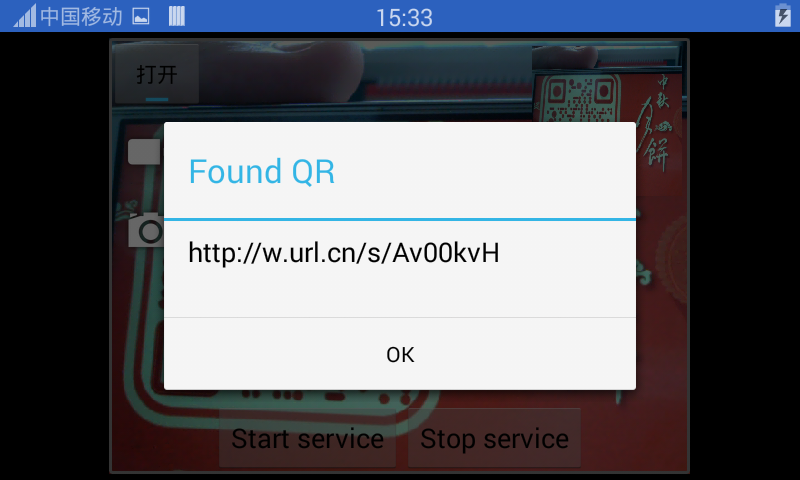
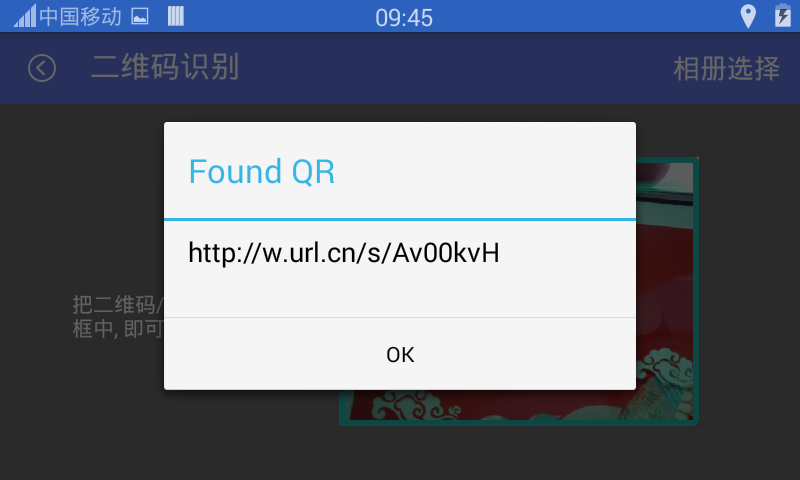
增加选择图片识别 增加Toolbar

diff --git a/app/src/main/java/com/serenegiant/utils/ImageUtil.java b/app/src/main/java/com/serenegiant/utils/ImageUtil.java
@@ -1,0 +1,161 @@
+/*
+******************************* Copyright (c)*********************************\
+**
+**                 (c) Copyright 2015, 蒋朋, china, qd. sd
+**                          All Rights Reserved
+**
+**                           By()
+**
+**
+**-----------------------------------版本信息------------------------------------
+** 版    本: V0.1
+**
+**------------------------------------------------------------------------------
+********************************End of Head************************************\
+*/
+
+package com.serenegiant.utils;
+
+import android.annotation.TargetApi;
+import android.content.ContentUris;
+import android.content.Context;
+import android.database.Cursor;
+import android.graphics.Bitmap;
+import android.graphics.BitmapFactory;
+import android.net.Uri;
+import android.os.Environment;
+import android.provider.DocumentsContract;
+import android.provider.MediaStore;
+
+/**
+ * 文 件 名: ImageUtil
+ * 创 建 人: 蒋朋
+ * 创建日期: 16-8-22 11:36
+ * 描    述: 图片处理工具类
+ * 修 改 人:
+ * 修改时间：
+ * 修改备注：
+ */
+
+public class ImageUtil {
+
+    /**
+     * 根据文件路径，压缩图片，用于二维码扫描
+     * @param path
+     * @return
+     */
+    public static Bitmap getBitmap(String path) {
+        BitmapFactory.Options options = new BitmapFactory.Options();
+        options.inJustDecodeBounds = true;
+        BitmapFactory.decodeFile(path, options);
+        int sampleSize = options.outHeight / 400;
+        if (sampleSize <= 0) {
+            sampleSize = 1;
+        }
+        options.inSampleSize = sampleSize;
+        options.inJustDecodeBounds = false;
+
+        return BitmapFactory.decodeFile(path, options);
+    }
+
+    /**
+     * 根据Uri获取图片绝对路径，解决Android4.4以上版本Uri转换
+     *
+     * @param context
+     * @param imageUri
+     */
+    @TargetApi(19)
+    public static String getImageAbsolutePath(Context context, Uri imageUri) {
+        if (context == null || imageUri == null)
+            return null;
+        if (android.os.Build.VERSION.SDK_INT >= android.os.Build.VERSION_CODES.KITKAT && DocumentsContract.isDocumentUri(context, imageUri)) {
+            if (isExternalStorageDocument(imageUri)) {
+                String docId = DocumentsContract.getDocumentId(imageUri);
+                String[] split = docId.split(":");
+                String type = split[0];
+                if ("primary".equalsIgnoreCase(type)) {
+                    return Environment.getExternalStorageDirectory() + "/" + split[1];
+                }
+            } else if (isDownloadsDocument(imageUri)) {
+                String id = DocumentsContract.getDocumentId(imageUri);
+                Uri contentUri = ContentUris.withAppendedId(Uri.parse("content://downloads/public_downloads"), Long.valueOf(id));
+                return getDataColumn(context, contentUri, null, null);
+            } else if (isMediaDocument(imageUri)) {
+                String docId = DocumentsContract.getDocumentId(imageUri);
+                String[] split = docId.split(":");
+                String type = split[0];
+                Uri contentUri = null;
+                if ("image".equals(type)) {
+                    contentUri = MediaStore.Images.Media.EXTERNAL_CONTENT_URI;
+                } else if ("video".equals(type)) {
+                    contentUri = MediaStore.Video.Media.EXTERNAL_CONTENT_URI;
+                } else if ("audio".equals(type)) {
+                    contentUri = MediaStore.Audio.Media.EXTERNAL_CONTENT_URI;
+                }
+                String selection = MediaStore.Images.Media._ID + "=?";
+                String[] selectionArgs = new String[]{split[1]};
+                return getDataColumn(context, contentUri, selection, selectionArgs);
+            }
+        } // MediaStore (and general)
+        else if ("content".equalsIgnoreCase(imageUri.getScheme())) {
+            // Return the remote address
+            if (isGooglePhotosUri(imageUri))
+                return imageUri.getLastPathSegment();
+            return getDataColumn(context, imageUri, null, null);
+        }
+        // File
+        else if ("file".equalsIgnoreCase(imageUri.getScheme())) {
+            return imageUri.getPath();
+        }
+        return null;
+    }
+
+    public static String getDataColumn(Context context, Uri uri, String selection, String[] selectionArgs) {
+        Cursor cursor = null;
+        String column = MediaStore.Images.Media.DATA;
+        String[] projection = {column};
+        try {
+            cursor = context.getContentResolver().query(uri, projection, selection, selectionArgs, null);
+            if (cursor != null && cursor.moveToFirst()) {
+                int index = cursor.getColumnIndexOrThrow(column);
+                return cursor.getString(index);
+            }
+        } finally {
+            if (cursor != null)
+                cursor.close();
+        }
+        return null;
+    }
+
+    /**
+     * @param uri The Uri to check.
+     * @return Whether the Uri authority is ExternalStorageProvider.
+     */
+    public static boolean isExternalStorageDocument(Uri uri) {
+        return "com.android.externalstorage.documents".equals(uri.getAuthority());
+    }
+
+    /**
+     * @param uri The Uri to check.
+     * @return Whether the Uri authority is DownloadsProvider.
+     */
+    public static boolean isDownloadsDocument(Uri uri) {
+        return "com.android.providers.downloads.documents".equals(uri.getAuthority());
+    }
+
+    /**
+     * @param uri The Uri to check.
+     * @return Whether the Uri authority is MediaProvider.
+     */
+    public static boolean isMediaDocument(Uri uri) {
+        return "com.android.providers.media.documents".equals(uri.getAuthority());
+    }
+
+    /**
+     * @param uri The Uri to check.
+     * @return Whether the Uri authority is Google Photos.
+     */
+    public static boolean isGooglePhotosUri(Uri uri) {
+        return "com.google.android.apps.photos.content".equals(uri.getAuthority());
+    }
+}

diff --git a/app/src/main/java/com/serenegiant/usbcamerazxing/MainActivity.java b/app/src/main/java/com/serenegiant/usbcamerazxing/MainActivity.java
@@ -23,22 +23,46 @@ package com.serenegiant.usbcamerazxing;
  * Files in the jni/libjpeg, jni/libusb, jin/libuvc, jni/rapidjson folder may have a different license, see the respective files.
 */
 
-import android.app.Activity;
+import android.app.AlertDialog;
 import android.app.Fragment;
-import android.content.pm.ActivityInfo;
+import android.content.Intent;
+import android.graphics.Bitmap;
+import android.graphics.Color;
+import android.net.Uri;
 import android.os.Bundle;
+import android.support.v7.app.AppCompatActivity;
+import android.support.v7.widget.Toolbar;
 import android.util.Log;
+import android.view.Menu;
+import android.view.MenuItem;
 import android.view.Window;
+import android.widget.Toast;
 
-public class MainActivity extends Activity {
+import com.serenegiant.utils.ImageUtil;
+import com.uuzuche.lib_zxing.activity.CodeUtils;
+
+public class MainActivity extends AppCompatActivity {
 	private static final boolean DEBUG = false;
 	private static final String TAG = "MainActivity";
+
+	private Toolbar mToolbar;
+
+	//选择图片后的识别码
+	private static final int REQUEST_QR_IMAGE = 480;
 
 	@Override
 	protected void onCreate(final Bundle savedInstanceState) {
 		super.onCreate(savedInstanceState);
 		requestWindowFeature(Window.FEATURE_NO_TITLE);
 		setContentView(R.layout.activity_main);
+
+		mToolbar = (Toolbar) findViewById(R.id.toolbar);
+
+		mToolbar.setTitle("二维码识别");
+		mToolbar.setTitleTextColor(Color.WHITE);
+		setSupportActionBar(mToolbar);
+		mToolbar.setNavigationIcon(R.drawable.ic_actionbar_back);
+
 		if (savedInstanceState == null) {
 			if (DEBUG) Log.i(TAG, "onCreate:new");
 			final Fragment fragment = new QRScanFragment();
@@ -47,38 +71,76 @@ public class MainActivity extends Activity {
 		}
 	}
 
+	/**
+	 * 相册选择后处理
+	 * @param requestCode
+	 * @param resultCode
+	 * @param data
+	 */
 	@Override
-	protected void onResume() {
-		super.onResume();
-		if (DEBUG) Log.v(TAG, "onResume:");
-//		updateScreenRotation();
+	protected void onActivityResult(int requestCode, int resultCode, Intent data) {
+		super.onActivityResult(requestCode, resultCode, data);
+
+		if (requestCode == REQUEST_QR_IMAGE) {
+			if (data != null) {
+				Uri uri = data.getData();
+				try {
+					CodeUtils.analyzeBitmap(ImageUtil.getImageAbsolutePath(this, uri), new CodeUtils.AnalyzeCallback() {
+						@Override
+						public void onAnalyzeSuccess(Bitmap Bitmap, String result) {
+							Log.w(TAG, "qrcode: " + result);
+
+							new AlertDialog.Builder(MainActivity.this)
+									.setTitle("Found QR")
+									.setMessage(result)
+									.setPositiveButton("OK", null)
+									.create()
+									.show();
+
+						}
+
+						@Override
+						public void onAnalyzeFailed() {
+							Toast.makeText(MainActivity.this, ("解析二维码失败"), Toast.LENGTH_LONG).show();
+						}
+					});
+				} catch (Exception e) {
+					e.printStackTrace();
+				}
+			}
+		}
+	}
+
+	/**
+	 * actionbar右侧添加菜单
+	 * @param menu 要添加的菜单
+	 * @return
+	 */
+	@Override
+	public boolean onCreateOptionsMenu(Menu menu) {
+		getMenuInflater().inflate(R.menu.menu_pic_select, menu);
+		return true;
 	}
 
 	@Override
-	protected void onPause() {
-		if (DEBUG) Log.v(TAG, "onPause:isFinishing=" + isFinishing());
-		super.onPause();
-	}
+	public boolean onOptionsItemSelected(MenuItem item) {
+		switch (item.getItemId()) {
+			case android.R.id.home:
+				finish();
+				break;
 
-	@Override
-	protected void onDestroy() {
-		if (DEBUG) Log.v(TAG, "onDestroy:");
-		super.onDestroy();
-	}
+			//相册选择
+			case R.id.menu_pic_select:
+				Intent intent = new Intent(Intent.ACTION_GET_CONTENT);
+				intent.addCategory(Intent.CATEGORY_OPENABLE);
+				intent.setType("image/*");
+				startActivityForResult(intent, REQUEST_QR_IMAGE);
+				break;
 
-	protected final void updateScreenRotation() {
-        final int screenRotation = 2;
-        switch (screenRotation) {
-        case 1:
-        	setRequestedOrientation(ActivityInfo.SCREEN_ORIENTATION_SENSOR_PORTRAIT);
-        	break;
-        case 2:
-        	setRequestedOrientation(ActivityInfo.SCREEN_ORIENTATION_SENSOR_LANDSCAPE);
-        	break;
-        default:
-        	setRequestedOrientation(ActivityInfo.SCREEN_ORIENTATION_UNSPECIFIED);
-        	break;
-        }
+			default:
+				break;
+		}
+		return super.onOptionsItemSelected(item);
 	}
 
 }

diff --git a/app/src/main/java/com/serenegiant/usbcamerazxing/QRScanFragment.java b/app/src/main/java/com/serenegiant/usbcamerazxing/QRScanFragment.java
@@ -178,7 +178,7 @@ public class QRScanFragment extends Fragment{
 	@Override
 	public View onCreateView(final LayoutInflater inflater, final ViewGroup container, final Bundle savedInstanceState) {
 		if (DEBUG) Log.v(TAG, "onCreateView:");
-		final View rootView = inflater.inflate(R.layout.activity_qr_scan, container, false);
+		final View rootView = inflater.inflate(R.layout.fragment_qr_scan, container, false);
 
 		mCameraView = (CameraViewInterface)rootView.findViewById(R.id.camera_view_qr);
 		mCameraView.setAspectRatio(DEFAULT_WIDTH / (float)DEFAULT_HEIGHT);

diff --git a/README.md b/README.md
@@ -4,14 +4,14 @@ USB 摄像头二维码识别
 usb摄像头识别二维码，涉及安卓技术：
 
 1. TextureView 使用
-2. 进程间通信，aidl, 广播
+2. 进程间通信，aidl
 3. Service使用
-4. 二维码识别
+4. 二维码/条码识别,支持选择图片识别
 5. USB连接
 
 + 运行项目，点击拍照按钮，即可识别二维码
 
-<img src="./1.png" width="400"/> <img src="./2.png" width="400"/>
+<img src="./1.png" width="320"/> <img src="./2.png" width="320"/> <img src="./3.png" width="320"/>
 
 参考：
 
